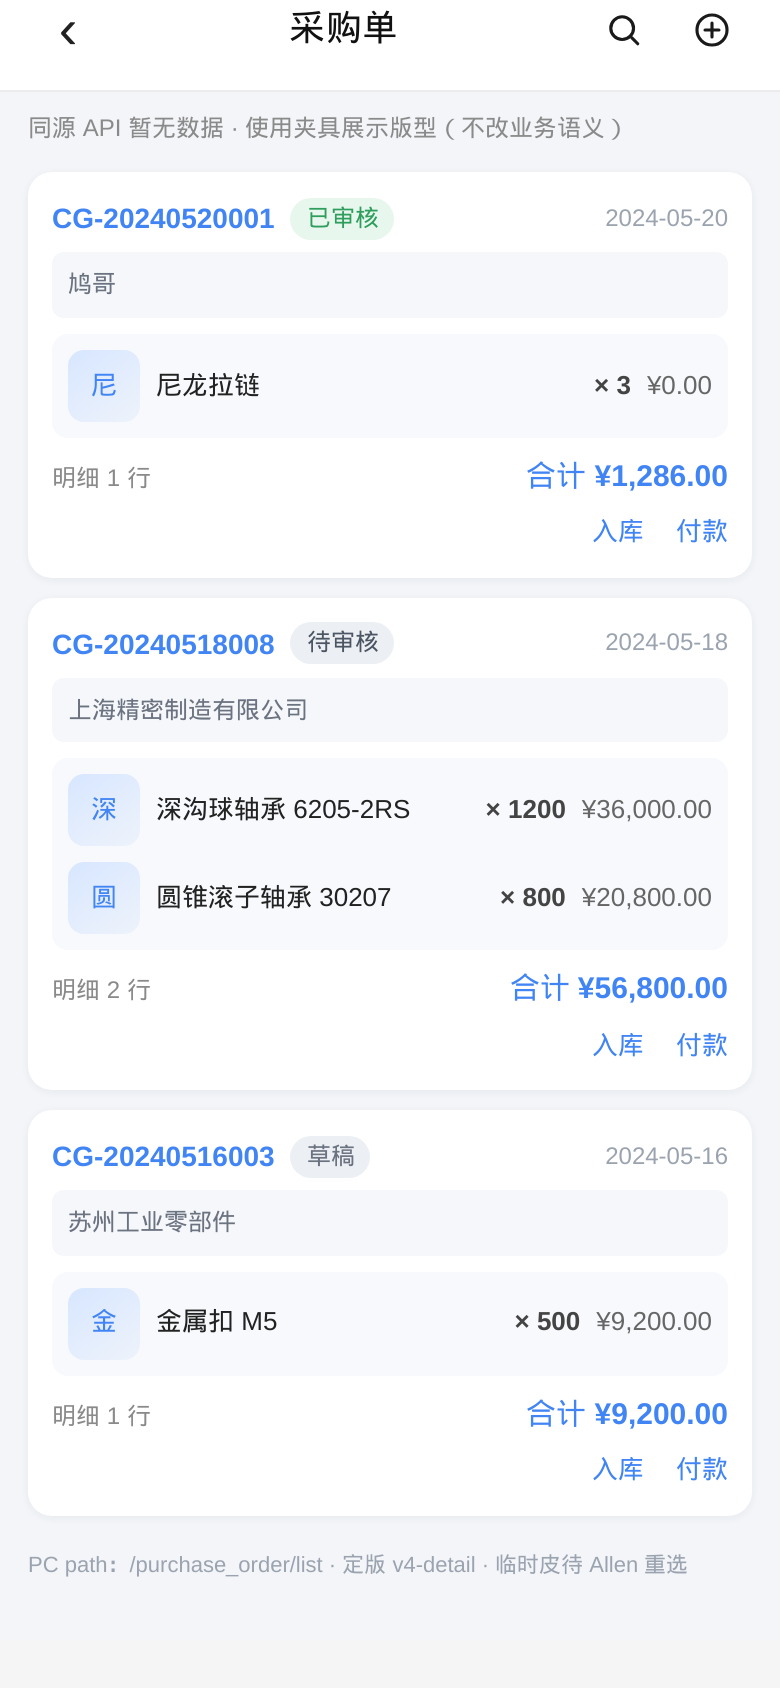
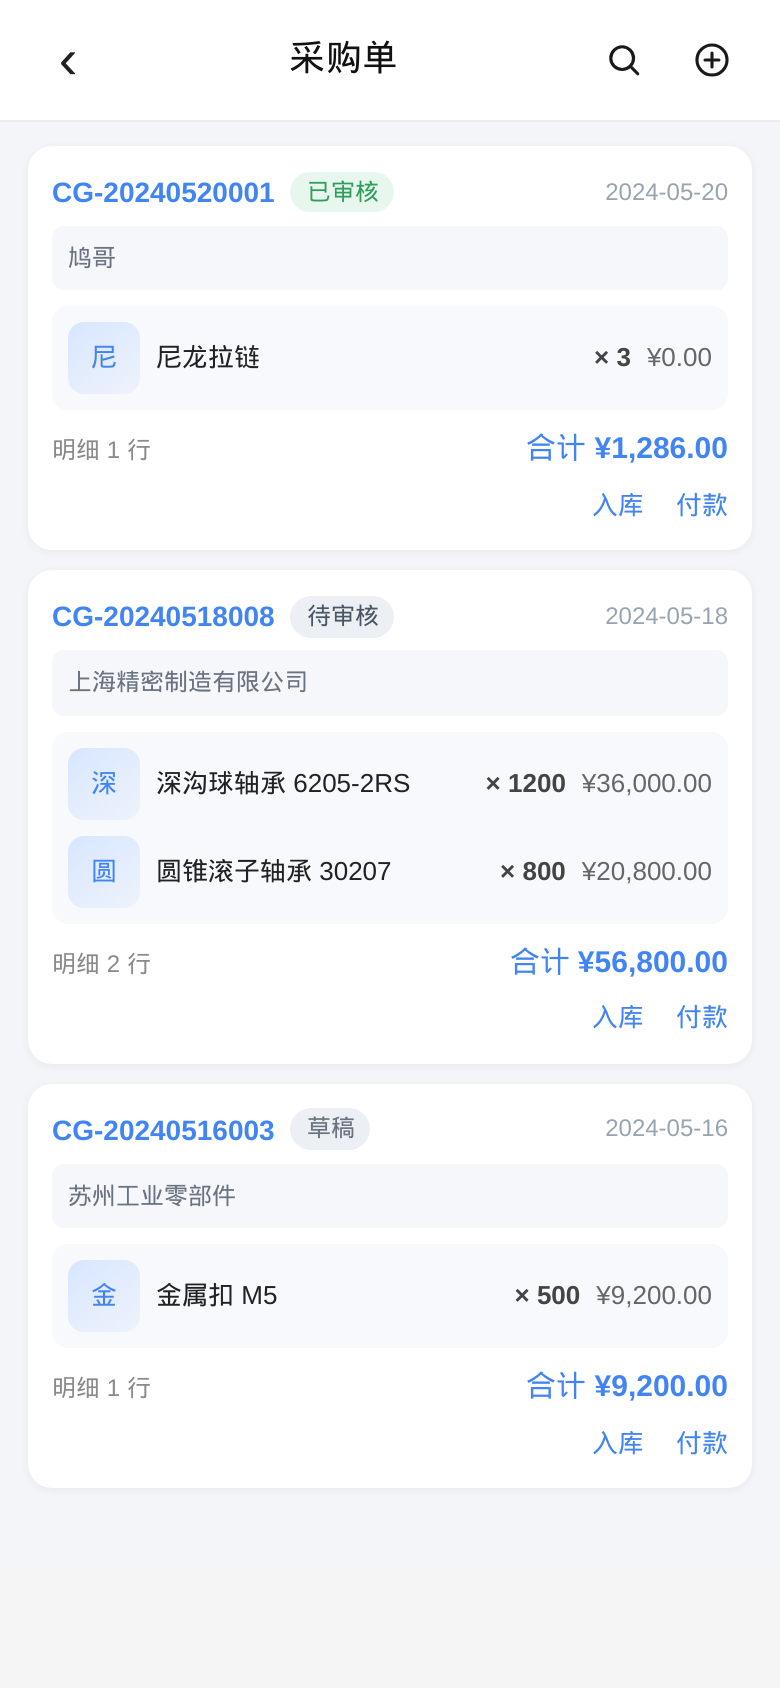
fix(mobile-c3): Allen P0 清夹具——去掉真机开发说明文案
删除叶子页夹具提示、PC path/定版页脚、（皮）类 toast；Playwright 加禁字断言。

diff --git a/apps/web/src/kgd/mobile-shell/purchase/PurchaseLeaf.tsx b/apps/web/src/kgd/mobile-shell/purchase/PurchaseLeaf.tsx
@@ -40,10 +40,10 @@ export function PurchaseLeaf({ leafKey }: { leafKey: string }) {
   useEffect(() => {
     const action = params.get('action');
     if (!action || !leaf) return;
-    if (action === 'scan') setToast('扫码报检入口已保留（皮）');
-    else if (action === 'blank') setToast(`新增入口已打开（皮）· ${leaf.title}`);
-    else if (params.get('upstream')) setToast(`上游已选，进入${leaf.title}（皮）`);
-    else setToast(`${action} · 业务写回后续`);
+    if (action === 'scan') setToast('已打开扫码报检');
+    else if (action === 'blank') setToast(`已打开：${leaf.title}`);
+    else if (params.get('upstream')) setToast(`已选上游，进入${leaf.title}`);
+    else setToast(`已执行：${action}`);
     const next = new URLSearchParams(params);
     next.delete('action');
     next.delete('upstream');
@@ -55,7 +55,6 @@ export function PurchaseLeaf({ leafKey }: { leafKey: string }) {
     if (leaf.layout === 'v1-settings') {
       return { items: FIXTURES[leaf.key] ?? [], fromFixture: true };
     }
-    // mt-lines API 需 spec_id，空参时常空 → 夹具保只读主路径结构
     const apiItems = mapApiItems(leaf, remote.data?.items ?? []);
     const reallyFixture = !(remote.data?.items?.length);
     return { items: reallyFixture ? (FIXTURES[leaf.key] ?? apiItems) : apiItems, fromFixture: reallyFixture };
@@ -77,14 +76,13 @@ export function PurchaseLeaf({ leafKey }: { leafKey: string }) {
       <div className="ms-leaf" data-testid="c3-leaf-miss">
         <button type="button" className="ms-back" onClick={() => navigate(-1)}>‹ 返回</button>
         <h2>未知采购叶子</h2>
-        <p className="ms-leaf-note">key={leafKey}</p>
       </div>
     );
   }
 
   function onPlusPick(item: PlusItem) {
     if (item.key === 'scan') {
-      setToast('扫码报检入口已保留（皮）');
+      setToast('已打开扫码报检');
       return;
     }
     const up = leaf!.plusUpstream?.[item.key] ?? (item.key === 'from-po' || item.key === 'from-demand' ? leaf!.upstream : undefined);
@@ -92,7 +90,7 @@ export function PurchaseLeaf({ leafKey }: { leafKey: string }) {
       navigate(msUpstreamUrl(leaf!, up));
       return;
     }
-    setToast(`${item.label} · 业务写回后续（皮）`);
+    setToast(`已打开：${item.label}`);
   }
 
   return (
@@ -116,9 +114,6 @@ export function PurchaseLeaf({ leafKey }: { leafKey: string }) {
         onSearchClose={() => setSearching(false)}
       />
       {toast && <div className="c3-toast" data-testid="c3-toast">{toast}</div>}
-      {fromFixture && leaf.layout !== 'v1-settings' && (
-        <p className="c3-fixture-hint">同源 API 暂无数据 · 使用夹具展示版型（不改业务语义）</p>
-      )}
       {leaf.key === 'purchase-price' && (
         <div className="c3-track-banner" data-testid="c3-track-banner">
           <span className="c3-set-ico" aria-hidden>价</span>
@@ -132,12 +127,6 @@ export function PurchaseLeaf({ leafKey }: { leafKey: string }) {
         {filtered.map((row) => renderC3Card(leaf.layout, leaf.key, row))}
         {!filtered.length && <div className="ms-empty">无匹配记录</div>}
       </div>
-      <p className="c3-leaf-foot">
-        PC path：{leaf.pcPath} · 定版 {leaf.layout}
-        {leaf.plus === null ? ' · 无＋' : ''}
-        {leaf.key === 'mt-lines' ? ' · 只读主路径' : ''}
-        {' · 临时皮待 Allen 重选'}
-      </p>
     </div>
   );
 }

diff --git a/apps/web/src/kgd/mobile-shell/purchase/UpstreamPick.tsx b/apps/web/src/kgd/mobile-shell/purchase/UpstreamPick.tsx
@@ -55,10 +55,7 @@ function remoteUrl(kind: string): string | null {
   return null;
 }
 
-/**
- * 上游勾选页：左勾、顶已选、右上完成(N)，对齐微信发起群聊。
- * 即使本地库空数据也保留结构（夹具兜底）。
- */
+/** 上游勾选页：左勾、顶已选、右上完成(N) */
 export function PurchaseUpstreamPick() {
   const [params] = useSearchParams();
   const navigate = useNavigate();
@@ -75,7 +72,6 @@ export function PurchaseUpstreamPick() {
     if (mapped.length) return mapped;
     return UPSTREAM_FIXTURES[kind] ?? [];
   }, [kind, remote.data]);
-  const fromFixture = !(mapRemote(kind, remote.data).length);
   const [picked, setPicked] = useState<string[]>([]);
 
   function toggle(id: string) {
@@ -113,7 +109,6 @@ export function PurchaseUpstreamPick() {
           完成({picked.length})
         </button>
       </header>
-      {fromFixture && <p className="c3-fixture-hint">本地暂无上游数据 · 展示夹具结构（业务写回不改）</p>}
       <div className="c3-pick-list">
         {options.map((opt) => {
           const on = picked.includes(opt.id);

diff --git a/apps/web/src/kgd/mobile-shell/MobileFourTabShell.tsx b/apps/web/src/kgd/mobile-shell/MobileFourTabShell.tsx
@@ -68,7 +68,7 @@ export function MobileFourTabShell() {
     if (item.key === 'add-supplier') {
       const supplier = c3LeafByKey('supplier');
       if (supplier) {
-        navigate(msLeafUrl(supplier, { action: 'blank', toast: '新增供应商入口已打开（皮）' }));
+        navigate(msLeafUrl(supplier, { action: 'blank', toast: '已打开：新增供应商' }));
         return;
       }
       navigate('/ms/leaf?key=supplier&title=' + encodeURIComponent('新增供应商') + '&path=' + encodeURIComponent('/supplier/list'));

diff --git a/apps/web/src/kgd/mobile-shell/purchase/c3-purchase.css b/apps/web/src/kgd/mobile-shell/purchase/c3-purchase.css
@@ -47,12 +47,6 @@
   outline: none;
 }
 
-.c3-fixture-hint {
-  margin: 8px 14px 0;
-  font-size: 12px;
-  color: #8a8a8a;
-}
-
 .c3-toast {
   margin: 8px 14px 0;
   padding: 10px 12px;
@@ -464,13 +458,7 @@
   font-weight: 600;
 }
 
-.c3-leaf-foot {
-  margin: 4px 14px 0;
-  font-size: 11px;
-  color: #9aa3af;
-}
-
-/* 上游选单 · 微信发起群聊皮 */
+/* 上游选单 */
 .c3-pick {
   min-height: 100%;
   background: #f3f5f8;

diff --git a/apps/web/src/kgd/mobile-shell/purchase/c3Registry.ts b/apps/web/src/kgd/mobile-shell/purchase/c3Registry.ts
@@ -1,6 +1,6 @@
 import type { PlusItem } from '../types';
 
-/** C3 供应/采购叶子定版（临时皮 · 待 Allen 重选） */
+/** C3 供应/采购叶子注册表 */
 export type C3Layout = 'v4-detail' | 'v1-sparse' | 'v4-track' | 'v1-settings';
 
 export type C3UpstreamKind =

diff --git a/apps/web/src/kgd/mobile-shell/purchase/fixtures.ts b/apps/web/src/kgd/mobile-shell/purchase/fixtures.ts
@@ -1,4 +1,4 @@
-/** 空库夹具：只服务 C3 手机皮验收，不写业务库 */
+/** 空库列表兜底数据（不进 UI 文案） */
 
 export type FixtureLine = {
   name: string;

diff --git a/docs/verification/mobile-c3-purchase/SUMMARY.md b/docs/verification/mobile-c3-purchase/SUMMARY.md
@@ -6,18 +6,18 @@
 
 | # | 项 | 结果 | 说明 |
 |---|----|------|------|
-| C3-L01 | ≤768 列表 供应商管理 | 通过 | layout=v1-sparse;plus=1 |
-| C3-L02 | ≤768 列表 采购计划 | 通过 | layout=v4-detail;plus=1 |
-| C3-L03 | ≤768 列表 采购单 | 通过 | layout=v4-detail;plus=1 |
-| C3-L04 | ≤768 列表 付款记录 | 通过 | layout=v4-detail;plus=1 |
-| C3-L05 | ≤768 列表 发票管理 | 通过 | layout=v4-detail;plus=1 |
-| C3-L06 | ≤768 列表 采购检验单 | 通过 | layout=v4-detail;plus=1 |
-| C3-L07 | ≤768 列表 采购检验明细 | 通过 | layout=v4-detail;plus=0 |
-| C3-L08 | ≤768 列表 检验规范 | 通过 | layout=v1-sparse;plus=1 |
-| C3-L09 | ≤768 列表 审核设置 | 通过 | layout=v1-sparse;plus=1 |
-| C3-L10 | ≤768 列表 采购设置 | 通过 | layout=v1-settings;plus=0 |
-| C3-L11 | ≤768 列表 供应商设置 | 通过 | layout=v1-settings;plus=0 |
-| C3-L12 | ≤768 列表 采购价格追踪 | 通过 | layout=v4-track;plus=0 |
+| C3-L01 | ≤768 列表 供应商管理 | 通过 | layout=v1-sparse;plus=1;ui-clean |
+| C3-L02 | ≤768 列表 采购计划 | 通过 | layout=v4-detail;plus=1;ui-clean |
+| C3-L03 | ≤768 列表 采购单 | 通过 | layout=v4-detail;plus=1;ui-clean |
+| C3-L04 | ≤768 列表 付款记录 | 通过 | layout=v4-detail;plus=1;ui-clean |
+| C3-L05 | ≤768 列表 发票管理 | 通过 | layout=v4-detail;plus=1;ui-clean |
+| C3-L06 | ≤768 列表 采购检验单 | 通过 | layout=v4-detail;plus=1;ui-clean |
+| C3-L07 | ≤768 列表 采购检验明细 | 通过 | layout=v4-detail;plus=0;ui-clean |
+| C3-L08 | ≤768 列表 检验规范 | 通过 | layout=v1-sparse;plus=1;ui-clean |
+| C3-L09 | ≤768 列表 审核设置 | 通过 | layout=v1-sparse;plus=1;ui-clean |
+| C3-L10 | ≤768 列表 采购设置 | 通过 | layout=v1-settings;plus=0;ui-clean |
+| C3-L11 | ≤768 列表 供应商设置 | 通过 | layout=v1-settings;plus=0;ui-clean |
+| C3-L12 | ≤768 列表 采购价格追踪 | 通过 | layout=v4-track;plus=0;ui-clean |
 | C3-PLUS-ORDER | 采购单＋下拉（加商品三选必留） | 通过 | ＋新增/品选择采购商品/计选择采购计划商品/合选择合同商品 |
 | C3-PLUS-PLAN | 采购计划＋下拉 | 通过 | ＋新建计划/需从需求转入 |
 | C3-PLUS-PAY | 付款＋下拉 | 通过 | ＋登记付款/采关联采购单 |
